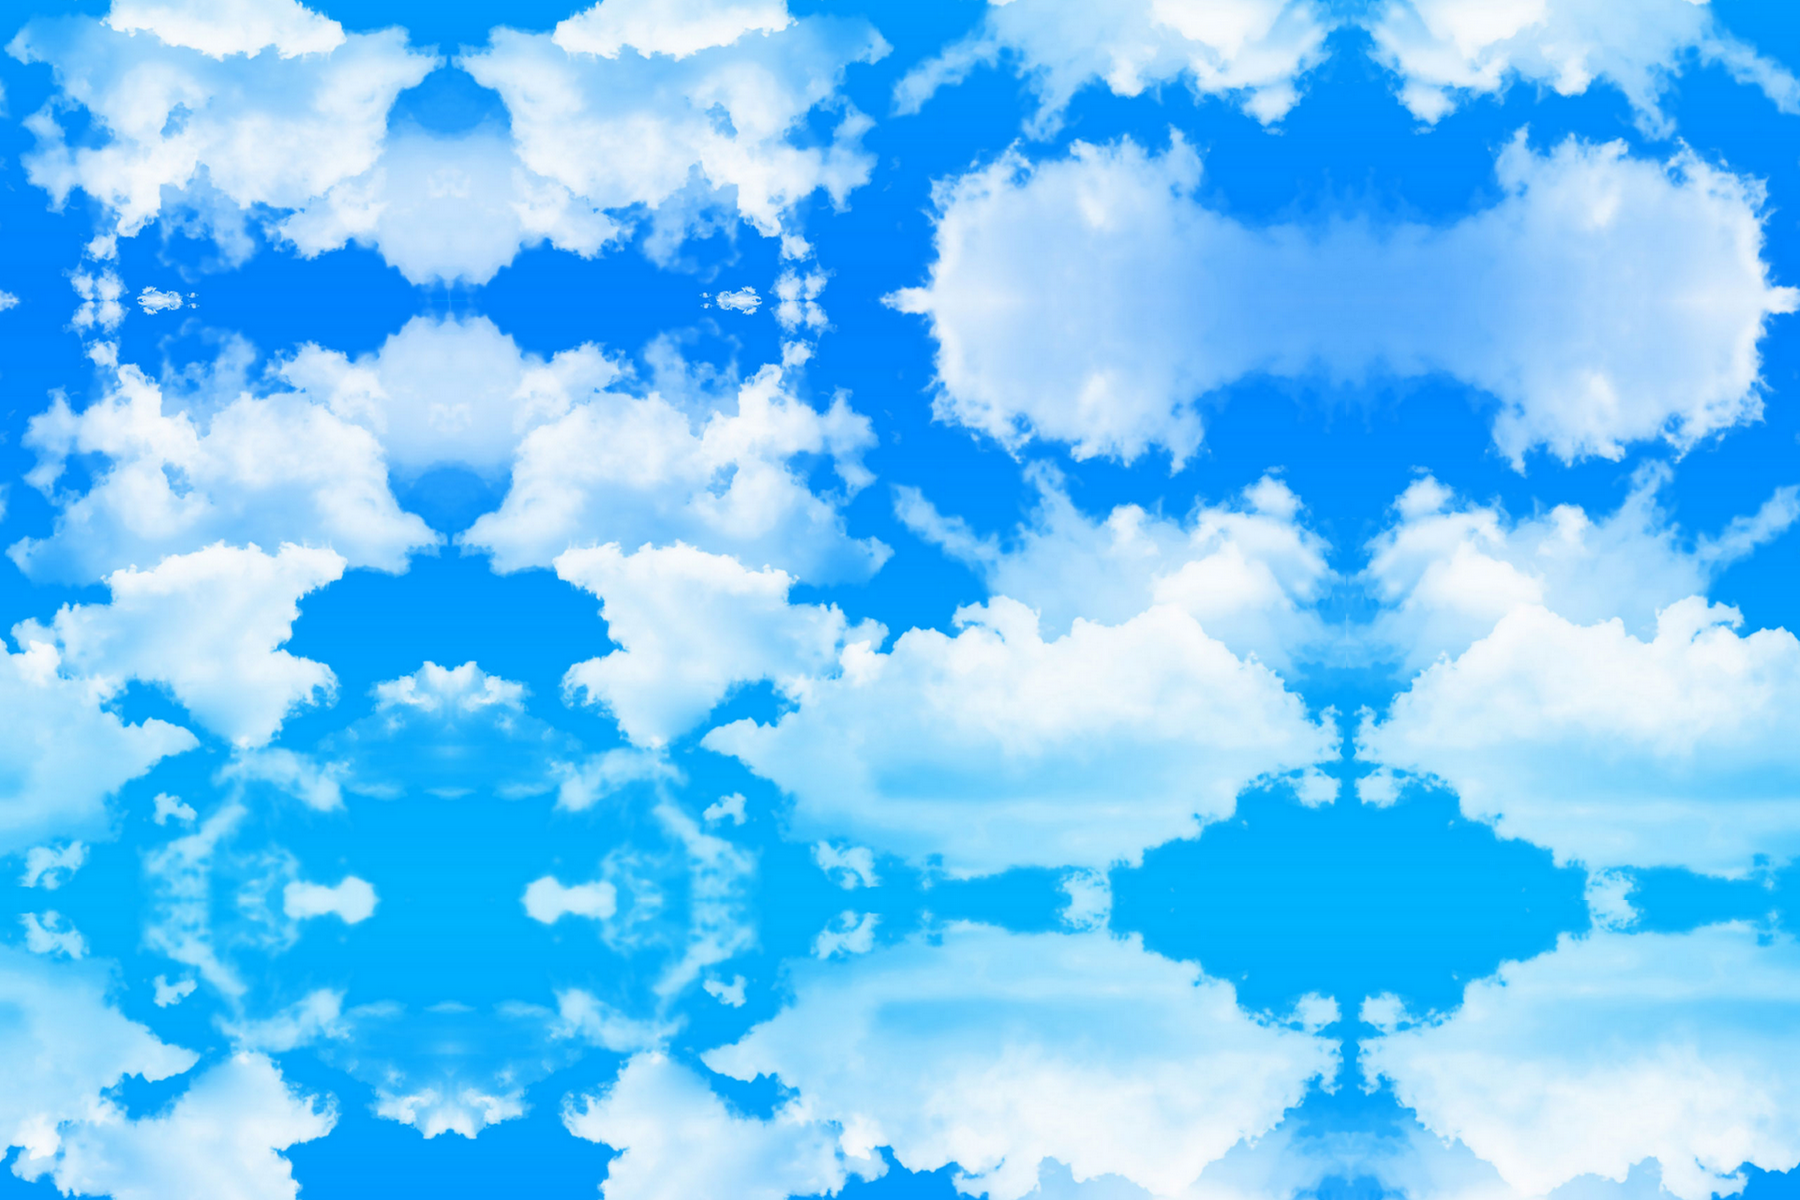
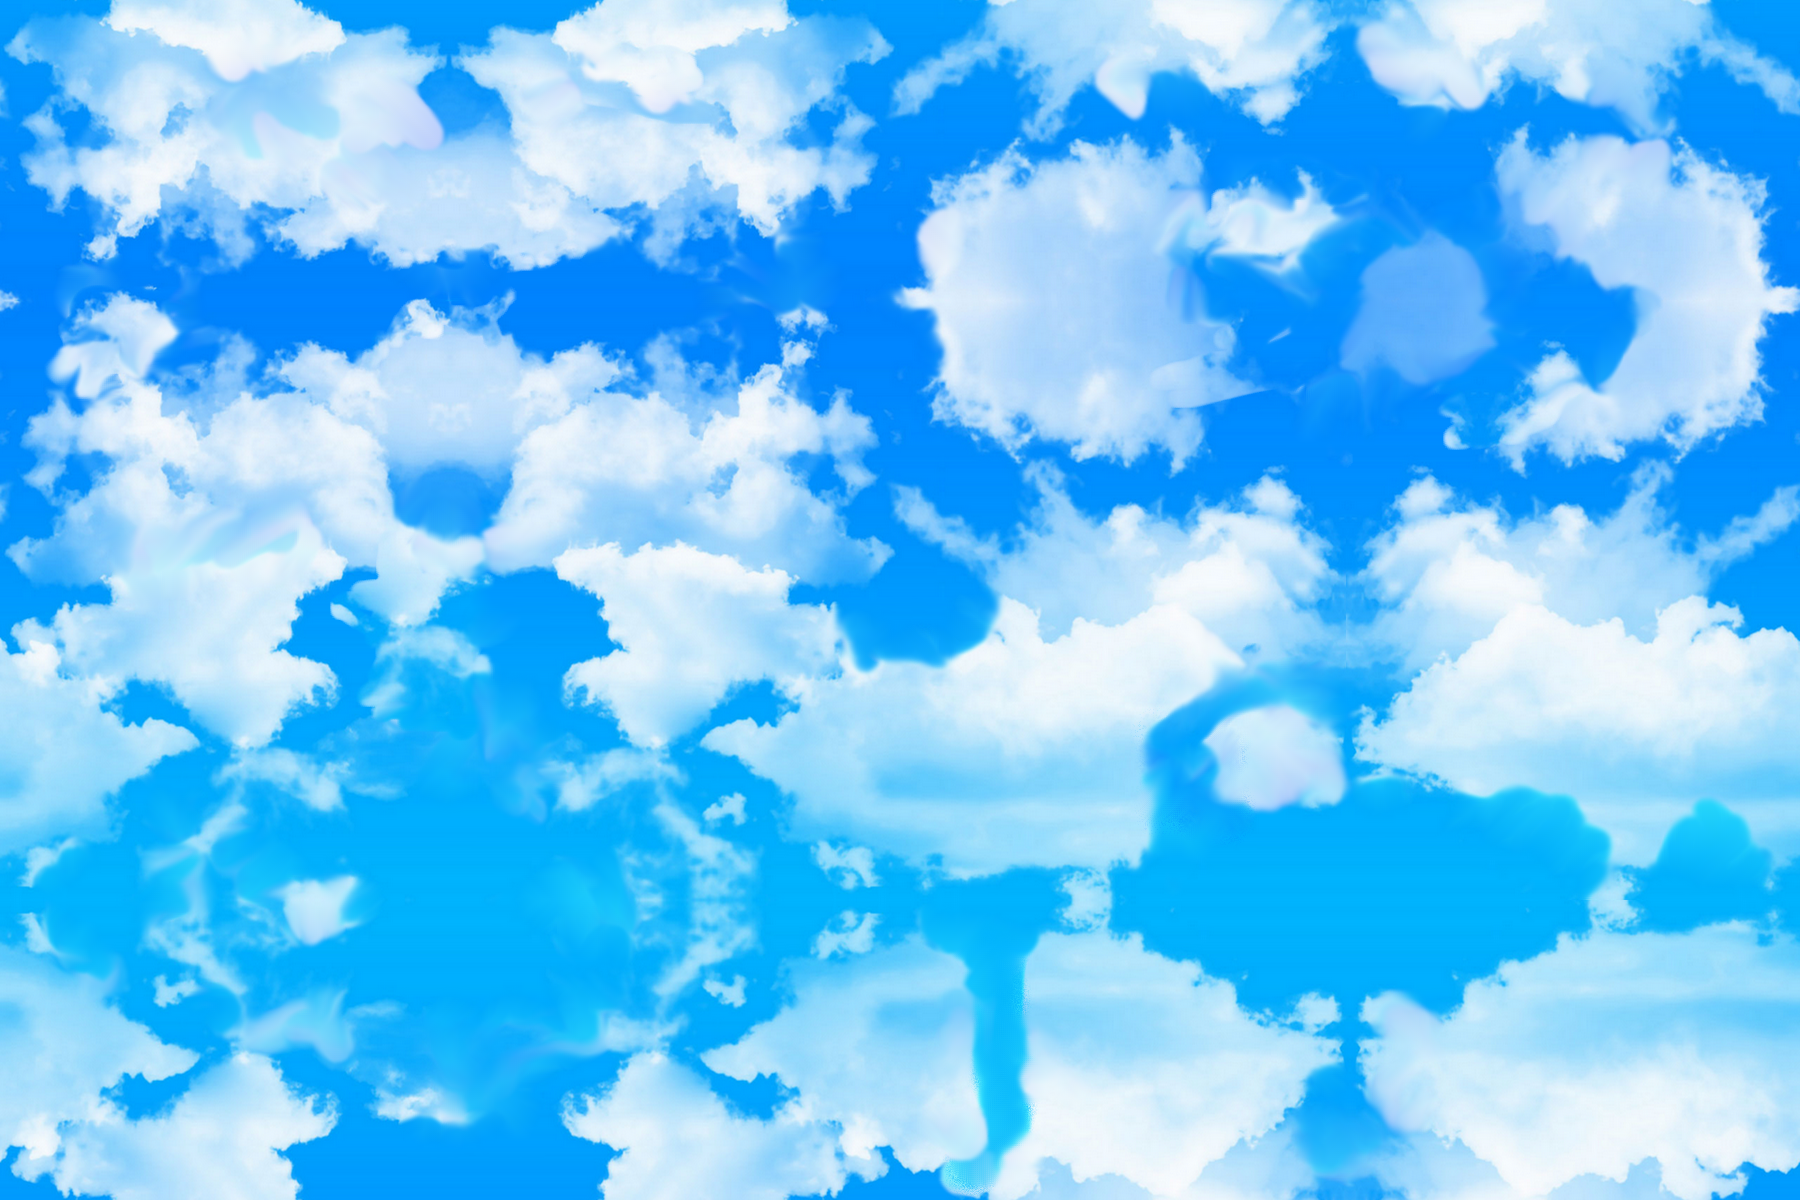
KBE - Changement de l'image de victoire + amélioration du background

diff --git a/webRTC/public/assets/js/game_done.js b/webRTC/public/assets/js/game_done.js
@@ -1,14 +1,21 @@
+var restartBtn_gamedone;
+
 var Game_Done = {
 
     preload : function() {
         // Load the needed image for this game screen.
-        game.load.image('gameover', './assets/images/BabyTrumpDump.png');
+        game.load.image('gameover', './assets/images/gamedone.png');
     },
 
     create : function() {
-
+    	this.scale.scaleMode = Phaser.ScaleManager.SHOW_ALL;
+    	this.scale.pageAlignVertically = true;
+    	this.scale.updateLayout( true );
+    	
         // Create button to start game like in Menu.
-        this.add.button(0, 0, 'gameover', this.startGame, this);
+    	restartBtn_gamedone = this.add.button(0, 0, 'gameover', this.startGame, this);
+    	restartBtn_gamedone.width = game.camera.width;
+    	restartBtn_gamedone.height = game.camera.height;
 
     },
 

diff --git a/webRTC/public/assets/js/game.js b/webRTC/public/assets/js/game.js
@@ -59,7 +59,7 @@ var Game = {
         this.generateObstacles();
         game.physics.enable([balloon,apple], Phaser.Physics.ARCADE);
         
-        
+        this.stage.disableVisibilityChange = true;
 
     },
 
@@ -169,9 +169,9 @@ var Game = {
 		 obstacle.body.immovable = true;
 		 game.physics.enable([obstacle], Phaser.Physics.ARCADE);
 		 obstacle.body.setCircle(
-				    150/2,
-				    (-150/2 + 0.5 * obstacle.width  / obstacle.scale.x),
-				    (-150/2 + 0.5 * obstacle.height / obstacle.scale.y)
+				    200/2,
+				    (-200/2 + 0.5 * obstacle.width  / obstacle.scale.x),
+				    (-200/2 + 0.5 * obstacle.height / obstacle.scale.y)
 				);
 		 }
 	 },
